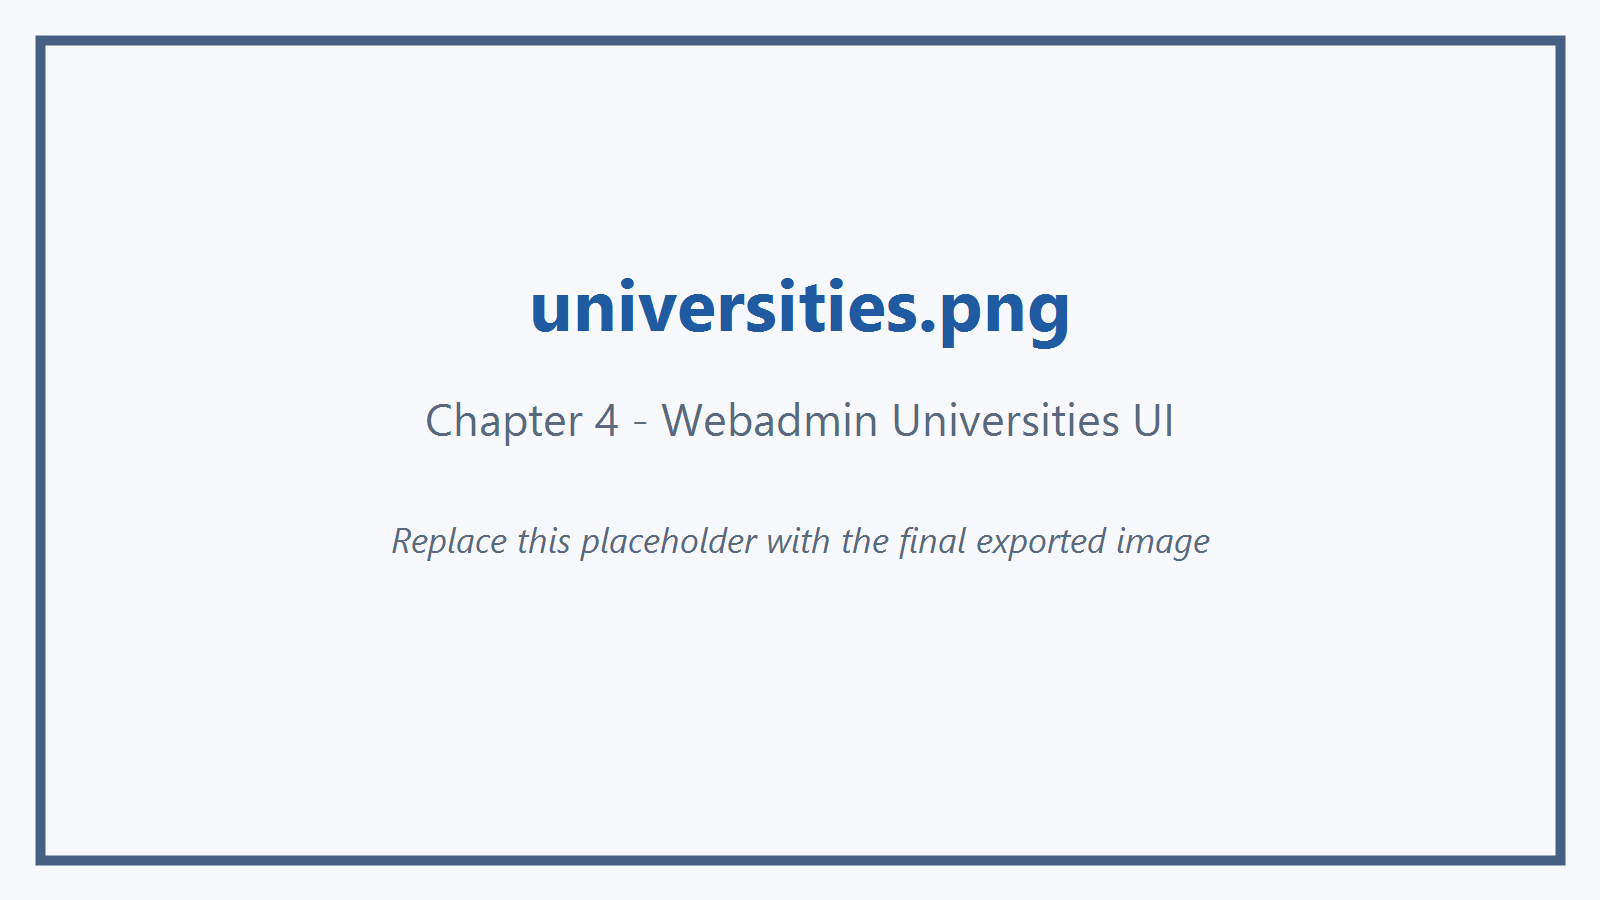
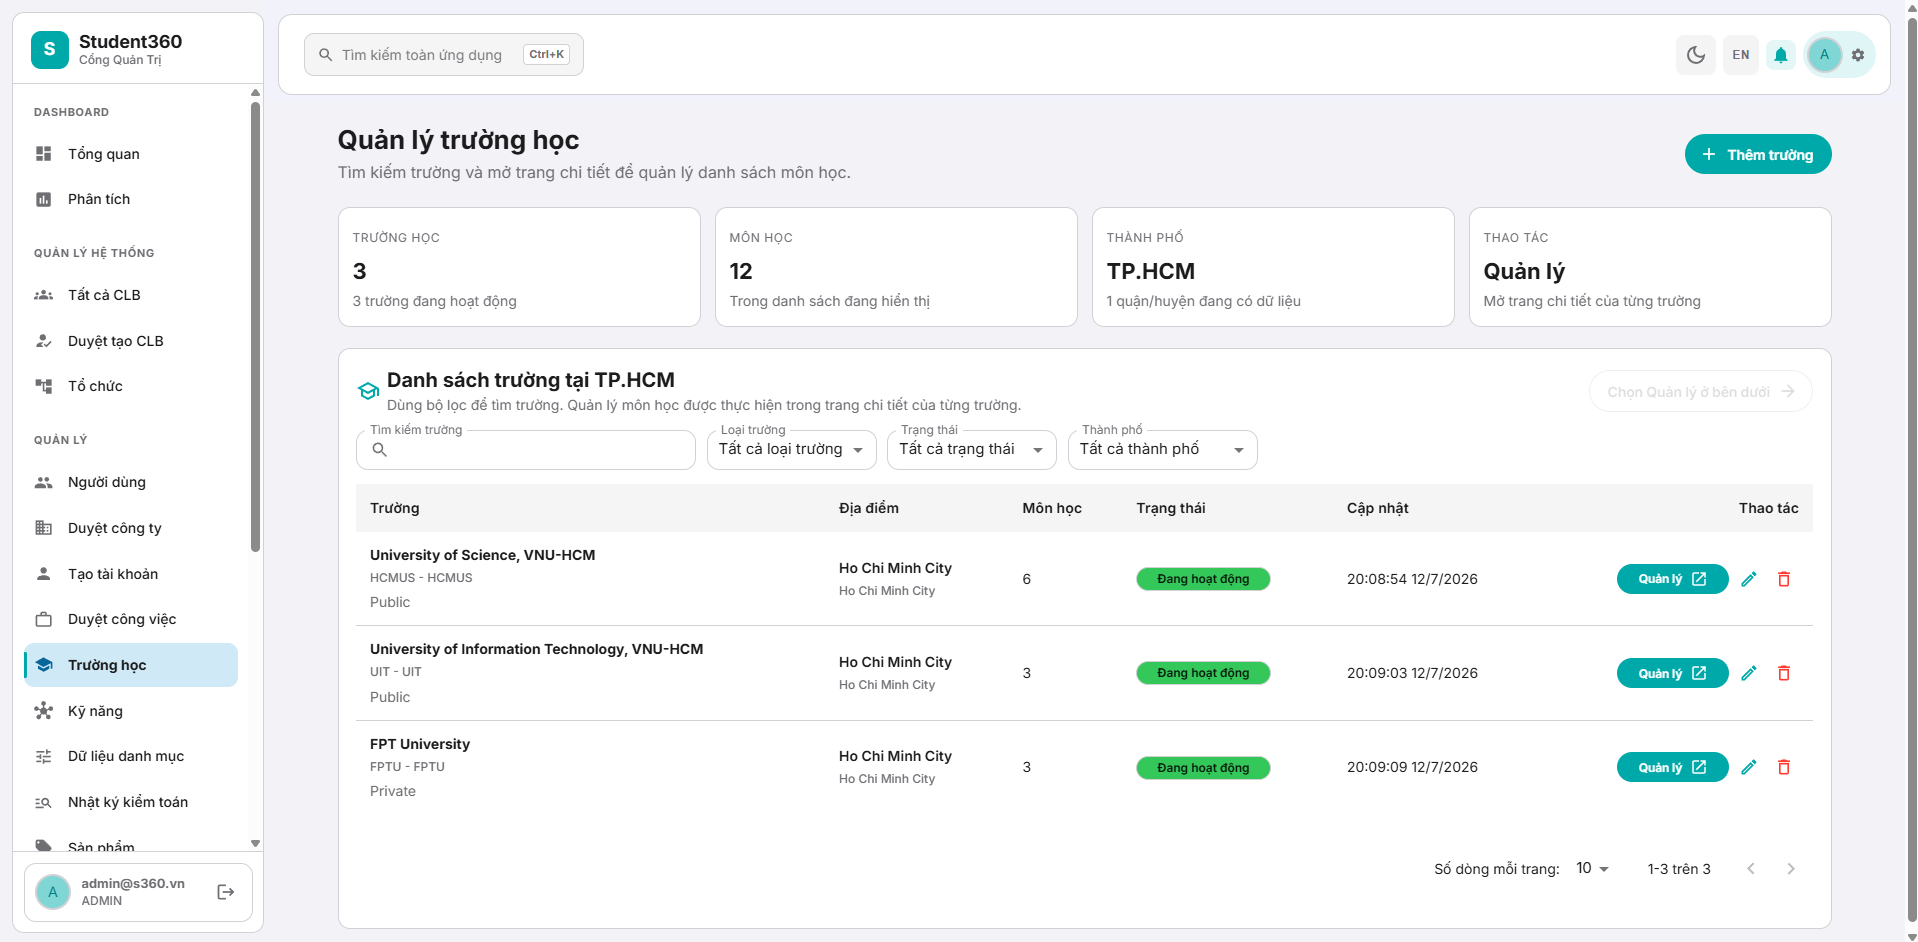
docs: update Chapter 6 with improved image sizes and additional content for training programs

diff --git a/Chapter6/chapter6.tex b/Chapter6/chapter6.tex
@@ -320,7 +320,7 @@ Màn hình quản trị dành cho Ban quản trị để quản lý danh mục c
 \begin{figure}[H]
     \centering
     \IfFileExists{Images/chapter4/webadmin/universities.png}{%
-        \includegraphics[width=0.6\textwidth]{Images/chapter4/webadmin/universities.png}%
+        \includegraphics[width=\textwidth]{Images/chapter4/webadmin/universities.png}%
     }{%
         \rectbox{Màn hình danh sách trường đại học trên Webadmin}
     }
@@ -337,9 +337,17 @@ Giao diện đồng bộ Master Data môn học và chương trình đào tạo 
 \begin{figure}[H]
     \centering
     \IfFileExists{Images/chapter4/webadmin/subjects-programs.png}{%
-        \includegraphics[width=0.6\textwidth]{Images/chapter4/webadmin/subjects-programs.png}%
+        \includegraphics[width=\textwidth,height=0.4\textheight,keepaspectratio]{Images/chapter4/webadmin/subjects-programs.png}%
     }{%
-        \rectbox{Màn hình quản lý môn học và khoa/chương trình đào tạo theo trường}
+        \rectbox{Màn hình quản lý môn học theo trường}
+    }
+
+    \vspace{0.5cm}
+
+    \IfFileExists{Images/chapter4/webadmin/training-programs.png}{%
+        \includegraphics[width=\textwidth,height=0.4\textheight,keepaspectratio]{Images/chapter4/webadmin/training-programs.png}%
+    }{%
+        \rectbox{Màn hình quản lý khoa/chương trình đào tạo theo trường}
     }
     \caption{Giao diện quản lý môn học và khoa/chương trình đào tạo}
     \label{fig:webadmin-subjects-programs}